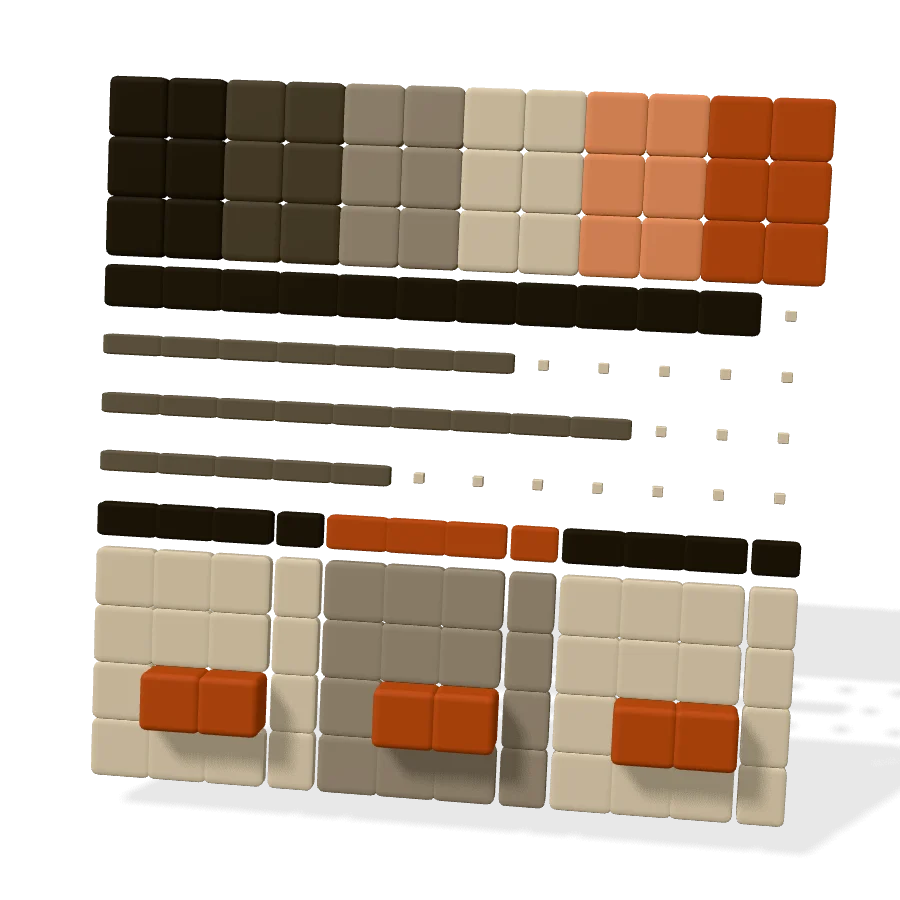
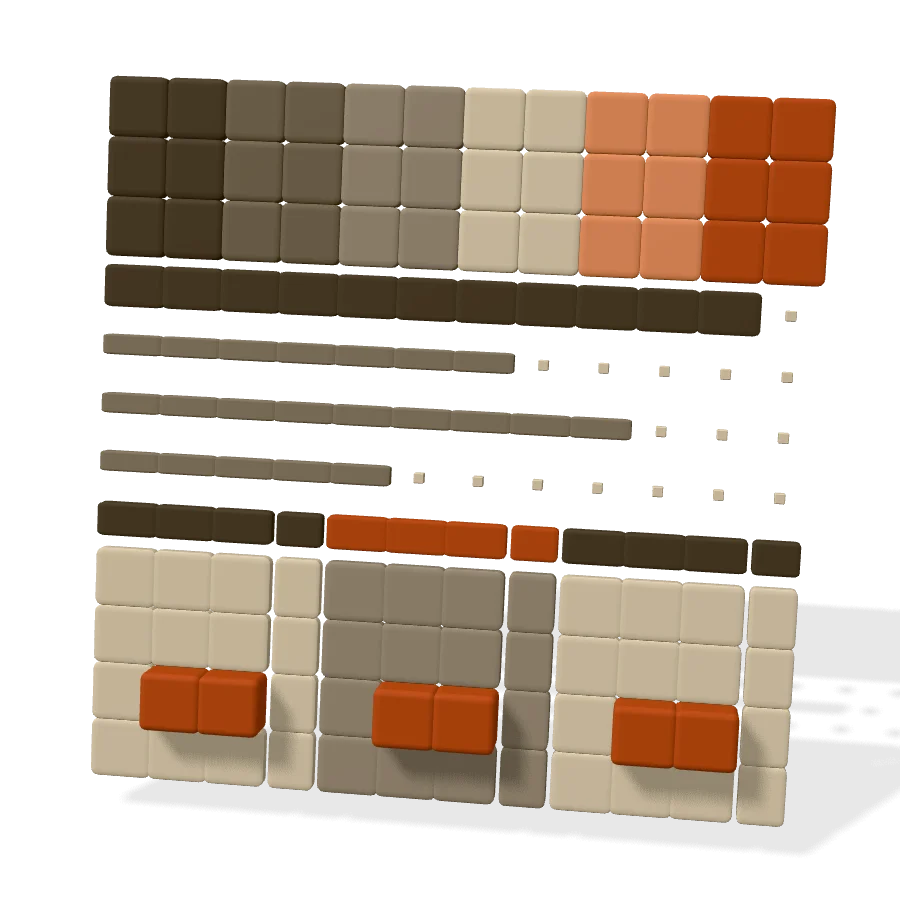
feat(www): dark mode for the company site

Changed region(s): [[0.0933, 0.0622, 0.8711, 0.6222], [0.6222, 0.5911, 0.9022, 0.6533]]

diff --git a/www/site.css b/www/site.css
@@ -1,9 +1,9 @@
-/* vagent.online company site. Brand: cream, ink, terracotta · Newsreader + Inter. */
-:root{--cream:#FAF9F5;--sand:#F3F1EA;--ink:#141413;--soft:#4A4844;--line:#E2DED3;--accent:#B5532F;--accent-hover:#9A4527;--accent-light:#F0946A;--pad:clamp(20px,5vw,80px);--head:Newsreader,Georgia,serif}
+/* vagent.online company site. Dark only. Brand: ink, cream, terracotta · Newsreader + Inter. */
+:root{color-scheme:dark;--bg:#141413;--bg-alt:#1A1917;--ink:#FAF9F5;--soft:#BDB9AE;--line:#34322E;--accent:#B5532F;--accent-hover:#9A4527;--accent-light:#F0946A;--pad:clamp(20px,5vw,80px);--head:Newsreader,Georgia,serif}
 *{box-sizing:border-box}
 html{scroll-padding-top:72px;-webkit-text-size-adjust:100%}
 html:not(.lenis){scroll-behavior:smooth}
-body{margin:0;background:var(--cream);color:var(--ink);font:400 1rem/1.6 Inter,system-ui,sans-serif;-webkit-font-smoothing:antialiased;overflow-x:clip}
+body{margin:0;background:var(--bg);color:var(--ink);font:400 1rem/1.6 Inter,system-ui,sans-serif;-webkit-font-smoothing:antialiased;overflow-x:clip}
 h1,h2,h3{font-family:var(--head);font-weight:400;line-height:1.08;margin:0 0 .5em;letter-spacing:-.015em;text-wrap:balance}
 h1{font-size:clamp(2.4rem,min(4.5vw,8.6vh),4.5rem)}
 h2{font-size:clamp(2rem,min(3.8vw,7vh),3.4rem)}
@@ -12,11 +12,11 @@ p{margin:0 0 1em}
 a{color:inherit}
 img{max-width:100%;height:auto}
 small{color:var(--soft);font-size:.8125rem}
-:focus-visible{outline:3px solid var(--accent);outline-offset:3px;border-radius:4px}
-.skip{position:fixed;left:12px;top:-80px;z-index:30;background:var(--ink);color:#fff;padding:12px 16px;border-radius:8px}
+:focus-visible{outline:3px solid var(--accent-light);outline-offset:3px;border-radius:4px}
+.skip{position:fixed;left:12px;top:-80px;z-index:30;background:var(--ink);color:var(--bg);padding:12px 16px;border-radius:8px}
 .skip:focus{top:12px}
 
-.top{position:fixed;inset:0 0 auto;z-index:20;height:64px;display:flex;align-items:center;justify-content:space-between;padding:0 var(--pad);background:rgba(250,249,245,.86);backdrop-filter:blur(12px);-webkit-backdrop-filter:blur(12px);border-bottom:1px solid var(--line)}
+.top{position:fixed;inset:0 0 auto;z-index:20;height:64px;display:flex;align-items:center;justify-content:space-between;padding:0 var(--pad);background:rgba(20,20,19,.86);backdrop-filter:blur(12px);-webkit-backdrop-filter:blur(12px);border-bottom:1px solid var(--line)}
 .logo{display:flex;min-height:44px;align-items:center}
 .logo img{display:block;width:110px}
 .top nav{display:flex;align-items:center;gap:clamp(4px,2vw,28px)}
@@ -28,8 +28,8 @@ small{color:var(--soft);font-size:.8125rem}
 .btn{display:inline-flex;align-items:center;justify-content:center;min-height:48px;padding:0 22px;border-radius:999px;background:var(--accent);color:#fff;font-weight:600;font-size:.9375rem;text-decoration:none;border:1px solid var(--accent);transition:transform .2s,background-color .2s}
 .btn:hover{background:var(--accent-hover);border-color:var(--accent-hover);transform:translateY(-2px)}
 .btn:active{transform:none}
-.btn.ghost{background:rgba(250,249,245,.7);color:var(--ink);border-color:#8C877B}
-.btn.ghost:hover{background:var(--sand);border-color:var(--ink)}
+.btn.ghost{background:rgba(20,20,19,.7);color:var(--ink);border-color:#77726A}
+.btn.ghost:hover{background:#262522;border-color:var(--ink)}
 .btn.small{min-height:40px;padding:0 18px}
 .actions{display:flex;flex-wrap:wrap;gap:12px;margin-top:28px}
 
@@ -49,25 +49,25 @@ main{position:relative;z-index:1}
 .line{display:block;overflow:hidden;padding-bottom:.06em;margin-bottom:-.06em}
 .line>span{display:block}
 .lead{font-size:clamp(1.0625rem,1.35vw,1.25rem);color:var(--soft);max-width:34rem}
-.num{font-size:.875rem;font-weight:600;color:var(--accent);margin-bottom:12px}
+.num{font-size:.875rem;font-weight:600;color:var(--accent-light);margin-bottom:12px}
 .chapter ul{list-style:none;margin:24px 0 0;padding:0}
 .chapter ul li{padding:12px 0;border-top:1px solid var(--line);color:var(--soft);font-size:.9375rem}
 .chapter ul b{color:var(--ink);font-weight:600}
 .flow{list-style:none;display:flex;flex-wrap:wrap;gap:6px;margin:16px 0 0;padding:0;counter-reset:f}
-.flow li{counter-increment:f;border:1px solid var(--line);background:var(--cream);border-radius:999px;padding:6px 12px;font-size:.8125rem;font-weight:500}
+.flow li{counter-increment:f;border:1px solid var(--line);background:var(--bg);border-radius:999px;padding:6px 12px;font-size:.8125rem;font-weight:500}
 .flow li::before{content:counter(f) " ";color:var(--soft)}
 .flow li.you{background:var(--accent);border-color:var(--accent);color:#fff}
 .flow li.you::before{color:#fff}
 .hint{position:absolute;left:var(--pad);bottom:20px;margin:0;font-size:.8125rem;color:var(--soft)}
 
-.rail{position:fixed;z-index:5;right:24px;bottom:24px;display:flex;gap:4px;margin:0;padding:6px;list-style:none;background:rgba(250,249,245,.9);border:1px solid var(--line);border-radius:999px;opacity:0;visibility:hidden;transform:translateY(12px);transition:opacity .25s,transform .25s,visibility .25s}
+.rail{position:fixed;z-index:5;right:24px;bottom:24px;display:flex;gap:4px;margin:0;padding:6px;list-style:none;background:rgba(20,20,19,.9);border:1px solid var(--line);border-radius:999px;opacity:0;visibility:hidden;transform:translateY(12px);transition:opacity .25s,transform .25s,visibility .25s}
 .rail.show{opacity:1;visibility:visible;transform:none}
 .rail a{display:block;padding:8px 14px;border-radius:999px;font-size:.8125rem;font-weight:500;text-decoration:none}
-.rail a[aria-current]{background:var(--ink);color:#fff}
+.rail a[aria-current]{background:var(--ink);color:var(--bg)}
 
 .solid{position:relative;padding:clamp(88px,12vh,150px) var(--pad);overflow:clip}
 .wrap{max-width:1240px;margin:0 auto}
-.work{background:var(--ink);color:var(--cream)}
+.work{background:#1F1E1B;border-block:1px solid var(--line)}
 .work .lead,.work small,.work .card p{color:#C9C5BA}
 .feature{display:grid;grid-template-columns:minmax(0,1.7fr) minmax(0,1fr);gap:clamp(24px,4vw,56px);align-items:center;margin:48px 0 24px}
 .feature figure{margin:0;border-radius:20px;overflow:hidden;border:1px solid #34322E;background:#22211F;aspect-ratio:16/10}
@@ -75,7 +75,7 @@ main{position:relative;z-index:1}
 .feature p{color:#C9C5BA}
 .link{display:inline-block;padding:8px 0;color:var(--accent-light);font-weight:600;text-underline-offset:4px}
 .cards{display:grid;grid-template-columns:repeat(3,minmax(0,1fr));gap:20px}
-.card{display:flex;flex-direction:column;border:1px solid #34322E;background:#1C1B19;border-radius:20px;padding:28px}
+.card{display:flex;flex-direction:column;border:1px solid #34322E;background:#161614;border-radius:20px;padding:28px}
 .card>:last-child{margin:auto 0 0}
 .times,.steps{list-style:none;margin:8px 0 16px;padding:0}
 .times li,.steps li{display:flex;gap:14px;padding:10px 0;border-top:1px solid #34322E;font-size:.9375rem}
@@ -85,14 +85,14 @@ main{position:relative;z-index:1}
 .steps li{counter-increment:s}
 .steps li::before{content:counter(s);width:1.2em;color:#A9A498}
 .talk{display:flex;flex-direction:column;gap:10px;margin:12px 0 14px}
-.talk p{margin:0;max-width:85%;padding:12px 16px;border-radius:16px 16px 16px 4px;background:#2A2926;color:var(--cream);font-size:.9375rem}
+.talk p{margin:0;max-width:85%;padding:12px 16px;border-radius:16px 16px 16px 4px;background:#2A2926;color:var(--ink);font-size:.9375rem}
 .talk .reply{align-self:flex-end;border-radius:16px 16px 4px 16px;background:var(--accent);color:#fff}
 .card .talk .reply{color:#fff}
 
-.process{background:var(--sand)}
+.process{background:var(--bg-alt)}
 .phases{display:grid;grid-template-columns:repeat(4,minmax(0,1fr));gap:24px;list-style:none;margin:48px 0;padding:0;counter-reset:p}
 .phases li{counter-increment:p;border-top:2px solid var(--ink);padding-top:20px}
-.phases li::before{content:counter(p);display:block;font:400 3rem/1 var(--head);color:var(--accent);margin-bottom:20px}
+.phases li::before{content:counter(p);display:block;font:400 3rem/1 var(--head);color:var(--accent-light);margin-bottom:20px}
 .phases p{color:var(--soft)}
 .promise{font:400 clamp(1.6rem,3vw,2.6rem)/1.2 var(--head);max-width:24ch;margin:0}
 
@@ -103,7 +103,7 @@ footer img{width:98px}
 footer span{color:var(--soft);margin-right:auto}
 footer a{display:inline-flex;align-items:center;min-height:44px}
 
-.motion{position:fixed;z-index:6;right:16px;top:76px;min-height:36px;padding:0 14px;border-radius:999px;border:1px solid var(--line);background:rgba(250,249,245,.92);color:var(--ink);font:500 .8125rem Inter,system-ui,sans-serif;cursor:pointer}
+.motion{position:fixed;z-index:6;right:16px;top:76px;min-height:36px;padding:0 14px;border-radius:999px;border:1px solid var(--line);background:rgba(20,20,19,.92);color:var(--ink);font:500 .8125rem Inter,system-ui,sans-serif;cursor:pointer}
 .motion[hidden],.motion.away{display:none}
 .hint{left:auto;right:var(--pad)}
 
@@ -121,11 +121,11 @@ footer a{display:inline-flex;align-items:center;min-height:44px}
   .hero .copy{padding-bottom:24px}
   .hero .lead{margin-bottom:0}
   .hero .actions{margin-top:18px;gap:10px}
-  .chapter .copy,.hero .copy{width:100%;padding:48px var(--pad) 40px;background:linear-gradient(rgba(250,249,245,0),var(--cream) 48px)}
+  .chapter .copy,.hero .copy{width:100%;padding:48px var(--pad) 40px;background:linear-gradient(rgba(20,20,19,0),var(--bg) 48px)}
   .hint{display:none}
   .contact{padding:48svh 0 0;justify-content:flex-end}
   .contact .copy{margin:0}
-  footer{padding-left:var(--pad);padding-right:var(--pad);background:var(--cream)}
+  footer{padding-left:var(--pad);padding-right:var(--pad);background:var(--bg)}
 }
 @media (max-width:560px){
   .top nav a:not(.btn):nth-child(3){display:none}

diff --git a/www/scene.js b/www/scene.js
@@ -3,7 +3,7 @@
 import * as T from './vendor/three.bundle.min.js';
 
 const N = 144, TAU = Math.PI * 2;
-const INK = '#2A2825', CREAM = '#F6F2E8', SAND = '#D9D1BF', CLAY = '#B5532F', PEACH = '#E39873', STONE = '#9C958A', GREEN = '#3F8F6B';
+const INK = '#575047', CREAM = '#F6F2E8', SAND = '#D9D1BF', CLAY = '#B5532F', PEACH = '#E39873', STONE = '#9C958A', GREEN = '#3F8F6B';
 const rand = (i, s = 0) => { const x = Math.sin((i + 1) * 127.1 + s * 311.7) * 43758.5453; return x - Math.floor(x); };
 const clamp = (v) => Math.min(1, Math.max(0, v));
 const ease = (t) => t * t * (3 - 2 * t);
@@ -37,8 +37,8 @@ function formation(k, i) {
     const x = i % 12, y = Math.floor(i / 12);
     // swatch columns on top, type bars in the middle, components below
     let col = CREAM, w = 0.66, h = 0.66, d = 0.22;
-    if (y >= 9) { col = [INK, INK, '#57534B', '#57534B', STONE, STONE, SAND, SAND, PEACH, PEACH, CLAY, CLAY][x]; w = h = 0.7; }
-    else if (y >= 5) { const len = [11, 7, 9, 5][8 - y]; col = x < len ? (y === 8 ? INK : '#6E695F') : SAND; w = x < len ? 0.72 : 0.12; h = x < len ? (y === 8 ? 0.5 : 0.24) : 0.12; d = 0.14; }
+    if (y >= 9) { col = [INK, INK, '#7A7367', '#7A7367', STONE, STONE, SAND, SAND, PEACH, PEACH, CLAY, CLAY][x]; w = h = 0.7; }
+    else if (y >= 5) { const len = [11, 7, 9, 5][8 - y]; col = x < len ? (y === 8 ? INK : '#8A8377') : SAND; w = x < len ? 0.72 : 0.12; h = x < len ? (y === 8 ? 0.5 : 0.24) : 0.12; d = 0.14; }
     else { const card = Math.floor(x / 4), btn = y === 1 && x % 4 > 0 && x % 4 < 3; col = btn ? CLAY : y === 4 ? [INK, CLAY, INK][card] : [SAND, STONE, SAND][card]; w = x % 4 === 3 ? 0.55 : 0.74; h = y === 4 ? 0.4 : 0.7; d = btn ? 0.55 : 0.18; }
     p.set((x - 5.5) * 0.7, (y - 5.5) * 0.7, y === 1 && x % 4 > 0 && x % 4 < 3 ? 0.25 : 0).applyQuaternion(FACE);
     q.copy(FACE); s.set(w, h, d); c = col;

diff --git a/www/index.html b/www/index.html
@@ -12,7 +12,7 @@
   <meta property="og:description" content="Web applications, UI/UX design, AI automation and infrastructure from a small team in Lebanon.">
   <meta property="og:image" content="https://vagent.online/www/img/share.jpg">
   <meta name="twitter:card" content="summary_large_image">
-  <meta name="theme-color" content="#FAF9F5">
+  <meta name="theme-color" content="#141413">
   <link rel="icon" type="image/svg+xml" href="/assets/brand/favicon.svg">
   <link rel="icon" href="/favicon.ico" sizes="any">
   <link rel="apple-touch-icon" sizes="180x180" href="/apple-touch-icon.png">
@@ -29,7 +29,7 @@
 <body>
   <a class="skip" href="#main">Skip to content</a>
   <header class="top">
-    <a class="logo" href="#hero" aria-label="VAgent, back to top"><img src="/assets/brand/lockup.svg" alt="VAgent" width="110" height="36"></a>
+    <a class="logo" href="#hero" aria-label="VAgent, back to top"><img src="/assets/brand/lockup-dark.svg" alt="VAgent" width="110" height="36"></a>
     <nav aria-label="Sections">
       <a href="#web">Services</a>
       <a href="#work">Work</a>
@@ -176,7 +176,7 @@
         <p class="actions"><a class="btn" href="https://www.instagram.com/v_agent961/" rel="noopener">Message @v_agent961</a></p>
       </div>
       <footer>
-        <img src="/assets/brand/lockup.svg" alt="VAgent" width="98" height="32" loading="lazy">
+        <img src="/assets/brand/lockup-dark.svg" alt="VAgent" width="98" height="32" loading="lazy">
         <span>Lebanon · © 2026 VAgent</span>
         <a href="https://www.instagram.com/v_agent961/" rel="noopener">Instagram</a>
         <a href="https://city.vagent.online/" rel="nofollow">Team sign-in</a>

diff --git a/TREE.md b/TREE.md
@@ -1,17 +1,19 @@
 # TREE — the whole project on one page (keep it updated, one line per item)
 
 ## Files
-- `www/index.html` + `site.css` + `site.js` — public company site on vagent.online: four services, work, process, contact; GSAP ScrollTrigger + Lenis scroll choreography, reduced motion, Pause motion button.
+- `www/index.html` + `site.css` + `site.js` — public company site on vagent.online (dark only): four services, work, process, contact; GSAP ScrollTrigger + Lenis scroll choreography, reduced motion, Pause motion button.
 - `www/scene.js` — lazy Three.js scene (144 blocks, one formation per `data-formation` section); `www/img/` fallback stills + share.jpg; `www/vendor/` self-hosted three/GSAP/Lenis.
 - `scripts/test-www.mjs` (checks + size budgets) · `www-preview.mjs` (http://localhost:8788) · `www-shots.mjs` (re-render stills) · `www-vendor.sh` (rebuild vendor on upgrades).
 - `.claude/skills/` GSAP, Three.js, Lenis, accessibility/performance skills (sources in `skills-lock.json`).
 - `docs/MARKETING-PLAN.md` — marketing pipeline: rules, flow, limits. Live in dry run.
 - `marketing.html` + `assets/marketing.js|css` — `city.vagent.online/marketing` review queue with its own sign-in screen and Sign out (owners, or the marketing-only account): watch, approve, edit, decline, change time, publish now, download video + copy caption (manual TikTok), status tabs, live publishing progress bar, Instagram (`@v_agent961`) connect and Dry Run switch.
-- `functions/_marketing.js` (state, lint, slots, video, schema, OIDC) · `functions/_publish.js` (Dry Run switch, tick, Instagram publishing, caption) · `functions/_instagram.js` (token + refresh, checks, error wording) · `functions/_telegram.js` (TikTok reminder Tue/Thu/Sat from 16:00 Beirut, before publishing, sent from the tick; optional secrets `TELEGRAM_BOT_TOKEN`, `TELEGRAM_CHAT_ID`, `TELEGRAM_NOTIFY_DRY_RUN=on`) · `functions/api/marketing.js` · `functions/hook/marketing.js` (n8n tick + render job) · `hook/marketing-media.js` (signed link). Tables `marketing_posts` (+`pub`; `targets` legacy)`|media|events|settings`. n8n `V-Agent | Marketing Publisher` Z4m9GTCAxMeHCkGm.
+- `functions/_lang.js` — reel language per Beirut day (ar-LB / en, anchored 2026-11-28), comment-request wording.
+- `tools/marketing-render/fonts/` — Arabic webfonts (Alexandria, IBM Plex Sans Arabic, OFL); Arabic render: edge-tts voice, RTL scene.
+- `functions/_marketing.js` (state, lint, slots, video, schema, OIDC) · `functions/_publish.js` (Dry Run switch, tick, Instagram publishing, caption) · `functions/_instagram.js` (token + refresh, checks, error wording) · `functions/_telegram.js` (daily 16:00 Beirut TikTok reminder + published confirmation, sent from the tick; optional secrets `TELEGRAM_BOT_TOKEN`, `TELEGRAM_CHAT_ID`, `TELEGRAM_NOTIFY_DRY_RUN=on`) · `functions/api/marketing.js` · `functions/hook/marketing.js` (n8n tick + render job) · `hook/marketing-media.js` (signed link). Tables `marketing_posts` (+`pub`; `targets` legacy)`|media|events|settings`. n8n `V-Agent | Marketing Publisher` Z4m9GTCAxMeHCkGm.
 - Marketing tests: `node scripts/test-marketing-auth.mjs` (login + route limits), `node scripts/test-instagram.mjs` (EAA/IG hosts, connect, Reel publish, Dry Run; mock). Cloudflare secrets for the marketing account: `MARKETING_EMAIL`, `MARKETING_PASS_HASH` (pbkdf2, from `hashPassword`).
 - `tools/marketing-render/` + `.github/workflows/marketing-render.yml` — server render: `job.py`, `render.py`, `scene.html` (scene engine), `worlds/<name>.mjs|json` (one per video: visuals + sound, never reused), `fx.mjs` (runs the world), `sfx.py` (beat sound effects), `newworld.py` + `worlds/auto.mjs` (generated world when a video has none), `vendor/` (pixelfx core + video-director QA scripts, MIT), `character.js` (Vee, pixel pet presenter; `LOOK` in job.py re-renders on change), `music.py`, `posts/*.json`. Test: `node tools/marketing-render/lint.test.mjs`.
 - `.claude/skills/reel-idea-generator/` (`SKILL.md`, `check.mjs`: dedup + draft checks) -> `.claude/skills/reel-render-and-cleanup/` (`SKILL.md`, `reel.mjs status|wait|clean`). `GET /hook/marketing` = post ids + states only. Test: `node scripts/test-reel-cleanup.mjs`.
-- `functions/_autopilot.js` — Tue/Thu/Sat schedule: writes the reel (office AI), 2 h replacement, 19:00 cutoff (`marketing_posts.auto_day`); if Meta blocks API access the scheduled draft skips the Instagram-page duplicate check (event `autopilot_page_unchecked`). Tests: `node scripts/test-autopilot.mjs`, `node scripts/preview-autopilot.mjs` (live AI, writes nothing). `node scripts/generate-reels.mjs <n>` (queue n new reels now). Secret hook actions `generate|check` on `/hook/marketing`. `scripts/install-reel-cleanup.sh` = Mac cleanup LaunchAgent.
+- `functions/_autopilot.js` — daily schedule: writes the reel (language of the day) (office AI), 2 h replacement, 19:00 cutoff (`marketing_posts.auto_day`); if Meta blocks API access the scheduled draft skips the Instagram-page duplicate check (event `autopilot_page_unchecked`). Tests: `node scripts/test-autopilot.mjs`, `node scripts/preview-autopilot.mjs` (live AI, writes nothing). `node scripts/generate-reels.mjs <n>` (queue n new reels now). Secret hook actions `generate|check` on `/hook/marketing`. `scripts/install-reel-cleanup.sh` = Mac cleanup LaunchAgent.
 - `marketing/` — `voice.md` (ig skills voice profile), `ideas.md` (content backlog), `video-craft.md` (editing + motion rules). `scripts/install-ig-skill.sh` installs github.com/Jakeschincariol/instagram-agent-skill into `.claude/skills/`.
 - `assets/char/` — the call-page character: 7 face frames `r6-idle|blink|listen|think|talk1|talk2|talk3.svg` ("Avataaars" by Pablo Stanley, free for commercial use, via DiceBear; see CREDITS.txt) + a headset overlay drawn in voice-agent.js. Public call page: `English | عربي` tabs (UI text, RTL, speech-recognition language; saved in localStorage `va-lang`), character swaps frames: idle (blinks) / listening (bounces with mic level) / thinking (looks aside, headset pulses) / speaking (mouth moves ONLY while real sound plays: `audible` flag set by the player `playing`/`timeupdate` events (or utterance `onstart`/`onboundary` for browser voice), cleared on `ended`/`pause`/`error`/`waiting`/End Call; status stays Thinking until then; amplitude from an analyser on the player). No auto-silence / VAD any more (hold to talk). Language lock (public page): Whisper auto-detects en+ar on both tabs; every turn sends `replyLanguage` (active tab) to /api/public-voice → n8n Voice Receptionist (Prepare node: LANGUAGE LOCK + FINAL REMINDER replace the free-choice rules, English tab = English only, عربي tab = Lebanese Arabic only) and `lang` to /api/public-tts → Voice TTS (Prep: forced voice hannah/lulwa; no lang = pick by script). The HQ test call (no tabs) sends neither and keeps auto-detect. TTS pieces are requested in parallel and the first sentence plays alone. Clicking the character before a call starts it; End Call is the button under Hold to Talk.
 - `assets/perf.js` — `VPerf`: zoom/resize smoothness. Sets `<html data-zooming>` during viewport/DPR changes (+180 ms); `VPerf.busy()` makes city/vmove loops skip work, `VPerf.debounce(fn)` = 150 ms + rAF (used by the city + office ResizeObservers and admin tabs), `VPerf.watch(el)` = IntersectionObserver. No canvas in the site (all SVG), so no DPR bitmap to cap. Backdrop blurs were removed (solid scrims); `.stage` has `contain:layout paint`, `#sky` `contain:strict`. Loaded first in office.html and admin-voice.html.
